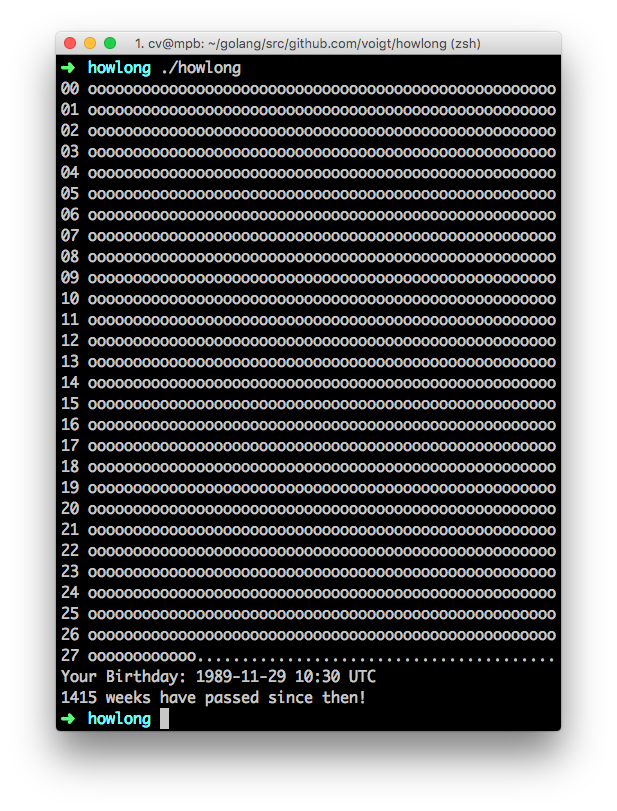
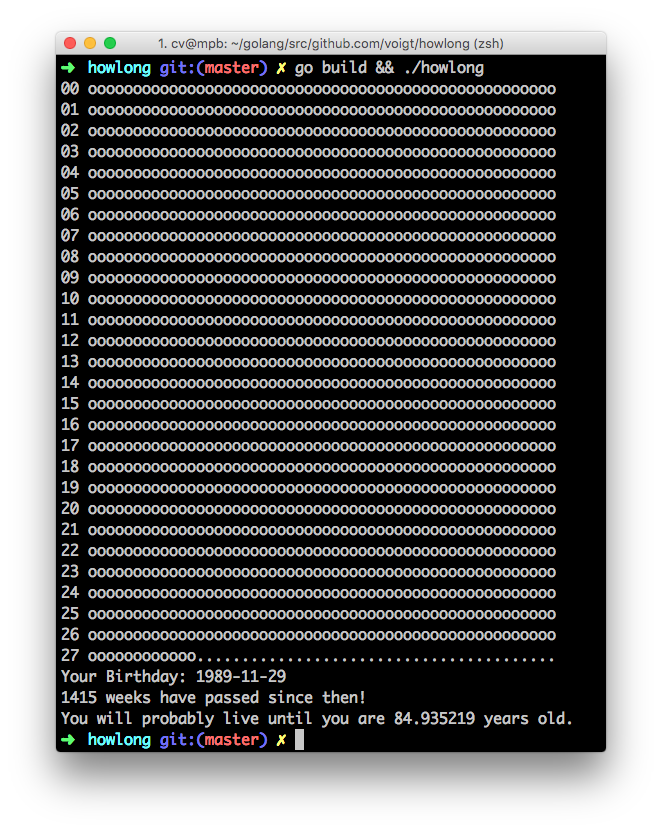
add expected years to live

diff --git a/main.go b/main.go
@@ -2,13 +2,31 @@ package main
 
 import (
 	"fmt"
-	"math"
+	"log"
+	"net/url"
 	"time"
+
+	"github.com/voigt/howlong/helper"
 )
 
+type Me struct {
+	Dob        string  `json:"dob"`
+	Country    string  `json:"country"`
+	Expectancy float64 `json:"total_life_expectancy"`
+	Sex        string  `json:"sex"`
+	Diabetes   string  `json:"diabetes"`
+}
+
 func main() {
+	me := &Me{
+		Sex:     "male",
+		Country: "Germany",
+		Dob:     "1989-11-29",
+	}
 	timeFormat := "2006-01-02 15:04 MST"
-	birthday := "1989-11-29 10:30 UTC"
+	birthday := me.Dob + " 10:30 UTC"
+
+	me.Expectancy = expectedAge("1989-11-29", me.Sex, me.Country)
 
 	then, err := time.Parse(timeFormat, birthday)
 	if err != nil {
@@ -20,31 +38,38 @@ func main() {
 	weeks := getWeekCount(duration)
 
 	printLife(weeks)
-	fmt.Printf("Your Birthday: %s\n", birthday)
+	fmt.Printf("Your Birthday: %s\n", me.Dob)
 	fmt.Printf("%d weeks have passed since then!\n", weeks)
-}
+	fmt.Printf("You will probably live until you are %f years old.\n", me.Expectancy)
 
-func Round(f float64) float64 {
-	return math.Floor(f + .5)
 }
 
 // Requests total life expectancy from api.population.io
 // Expects date of birth and country
+// Sample Request:
+// curl 'http://api.population.io:80/1.0/life-expectancy/total/male/Germany/1989-11-29/'
 // {
 //   "dob": "1989-11-29",
 //   "country": "Germany",
 //   "total_life_expectancy": 84.9352193923596,
 //   "sex": "male"
 // }
-func expectedAge(birthday time, country string) float64 {
-	// http://api.population.io:80/1.0/life-expectancy/total/male/Germany/1989-11-29/
+func expectedAge(dob string, gender string, country string) float64 {
 
-	return expectedAge
+	u, err := url.Parse("http://api.population.io:80/1.0/life-expectancy/total")
+	if err != nil {
+		log.Fatal(err)
+	}
+	u.Path = u.Path + "/" + gender + "/" + country + "/" + dob
+	me := &Me{}
+	helper.GetJson(u.String(), me)
+
+	return me.Expectancy
 }
 
 func getWeekCount(duration float64) int {
 
-	weeks := int(Round(duration / 24 / 7))
+	weeks := int(helper.Round(duration / 24 / 7))
 
 	return weeks
 }
@@ -80,7 +105,7 @@ func printLife(weeks int) {
 
 	weeksLeft := weeks
 
-	for i <= int(Round(float64(weeks)/52)) {
+	for i <= int(helper.Round(float64(weeks)/52)) {
 
 		fmt.Printf("%.2d ", i)
 		yearInWeeks(weeksLeft)

diff --git a/README.md b/README.md
@@ -1,3 +1,9 @@
 # howlong
 
+
+```
+./howlong? So loooooooooooooong...
+```
+
+
 ![](screenshot.png)
